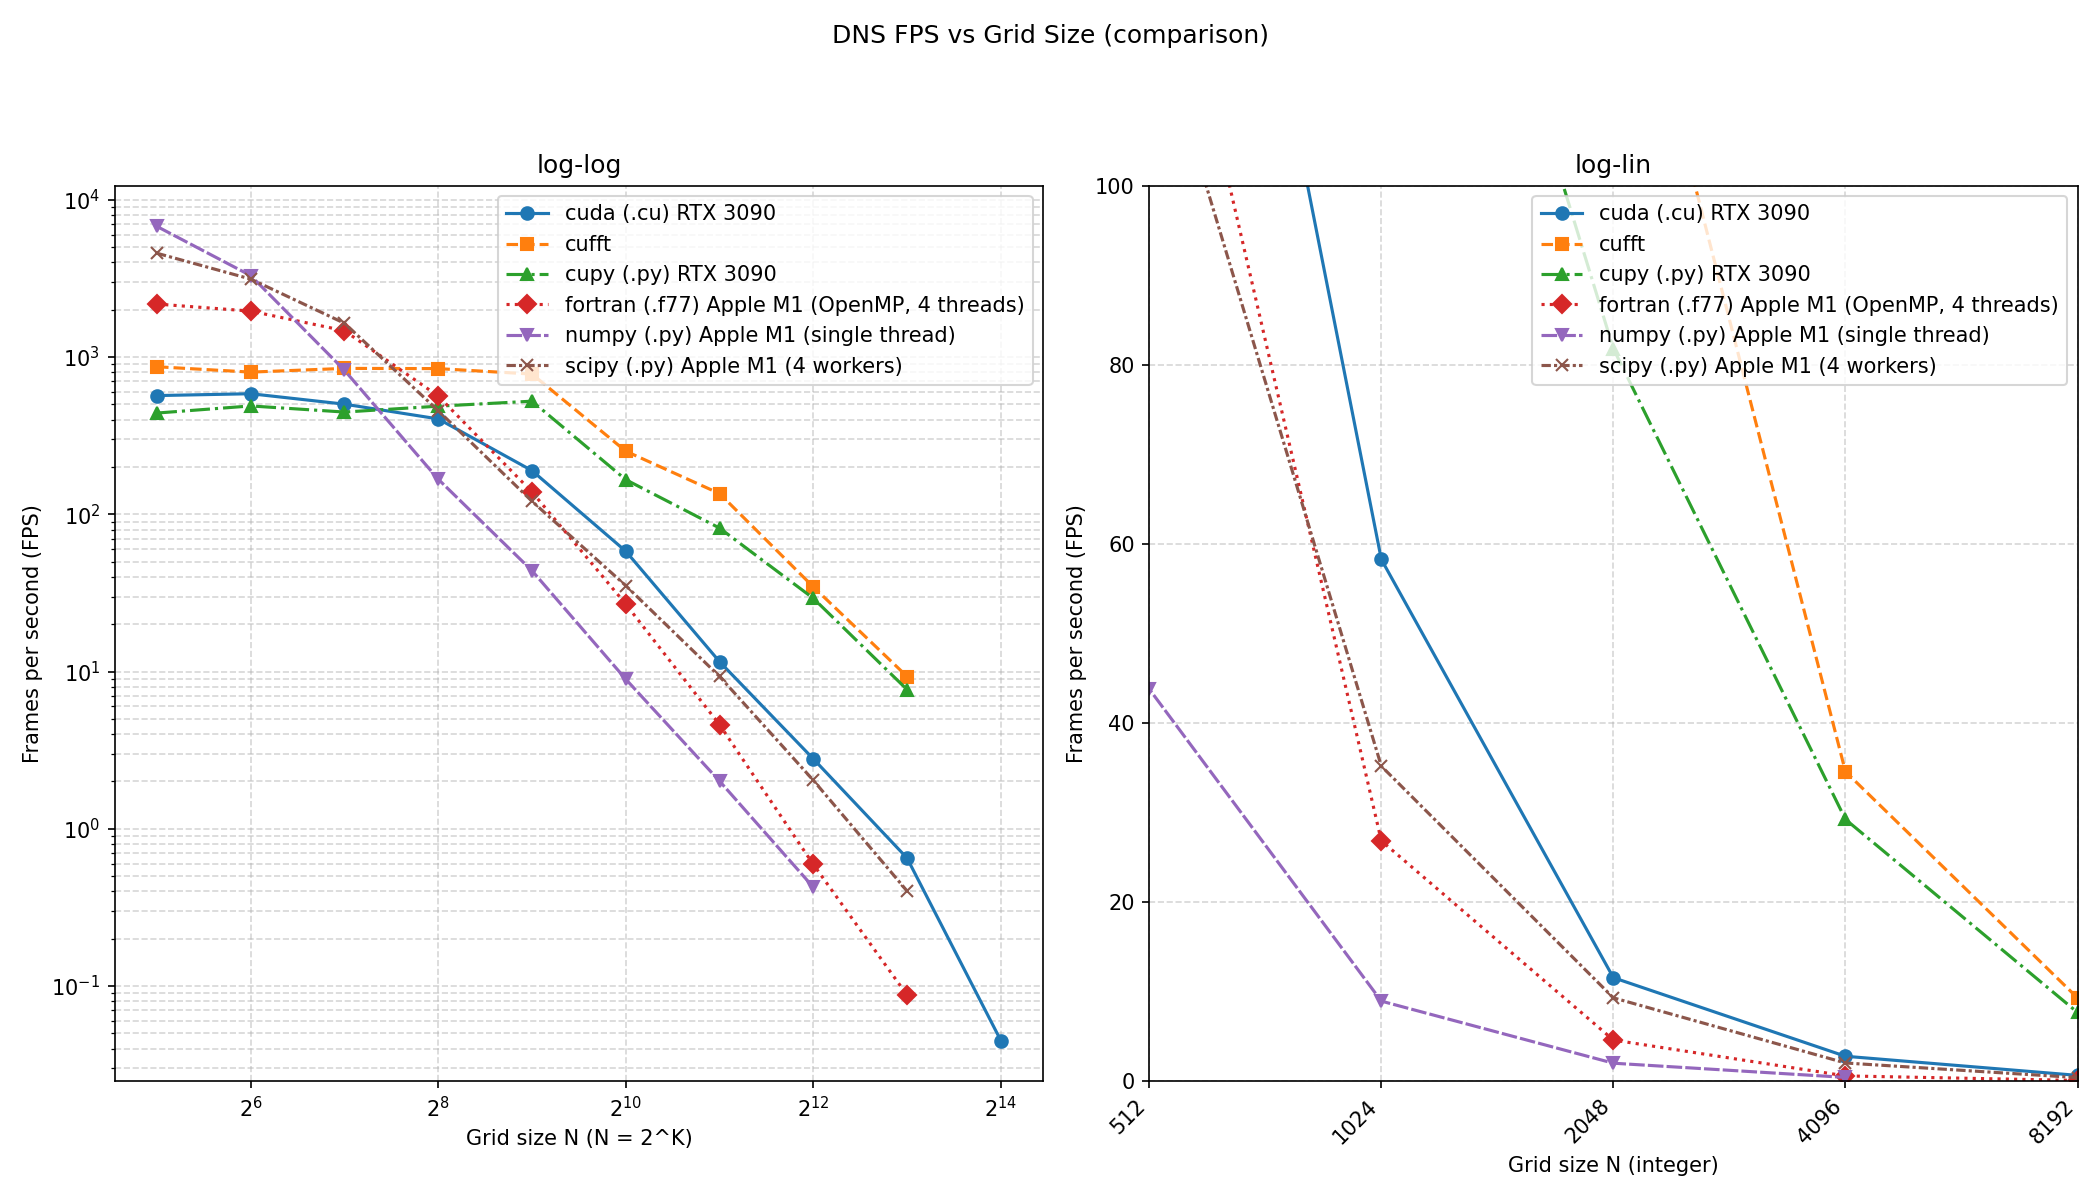
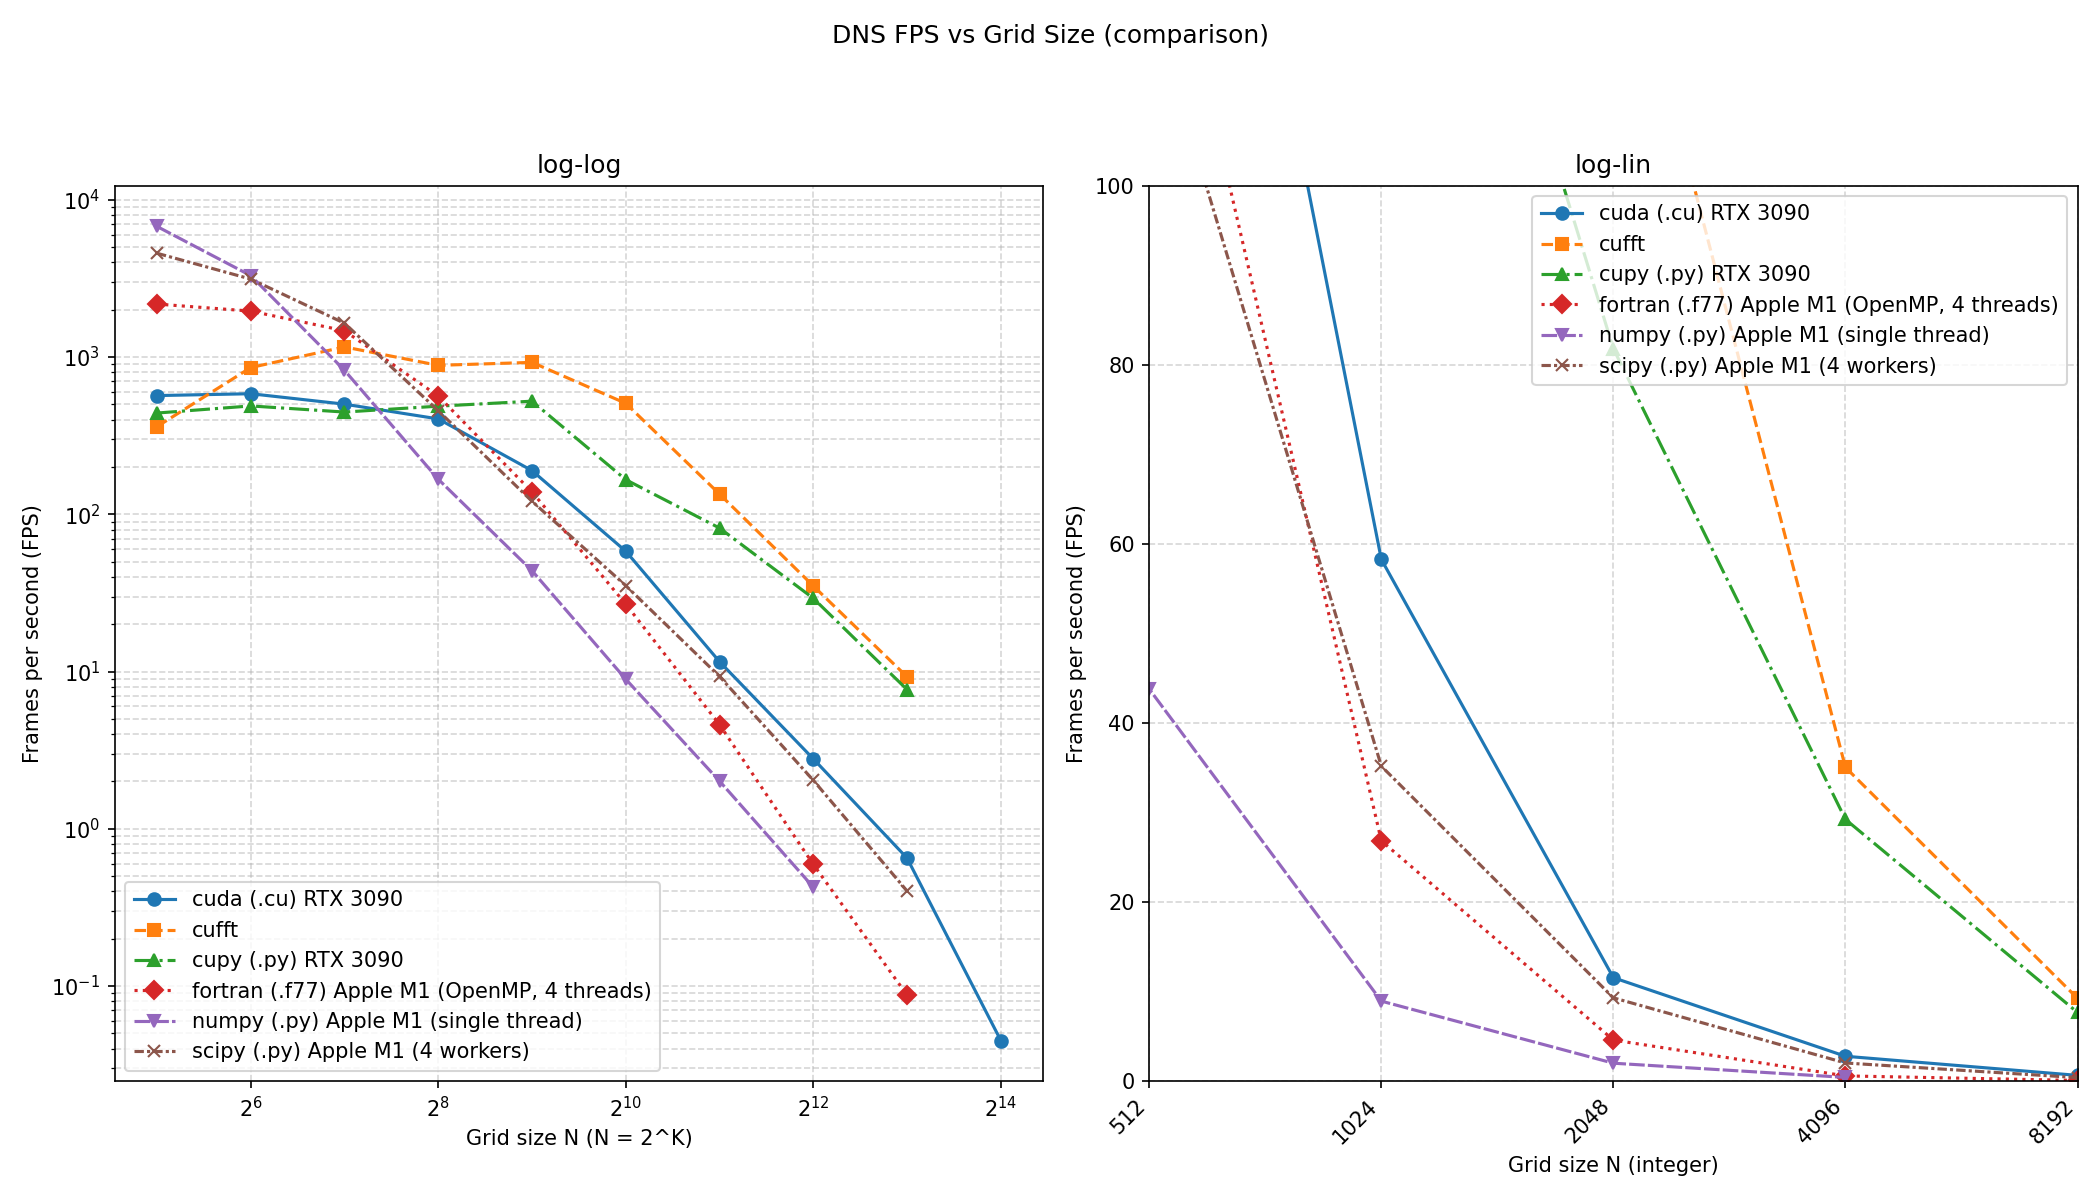
step3_inv_gamma0

diff --git a/fps/fps_compare.py b/fps/fps_compare.py
@@ -83,7 +83,7 @@ def main() -> None:
     ax1.set_ylabel("Frames per second (FPS)")
     ax1.set_title("log-log")
     ax1.grid(True, which="both", linestyle="--", alpha=0.5)
-    ax1.legend(loc="upper right")
+    ax1.legend(loc="lower left")
 
     # ---- Right subplot: log-lin ----
     ax2.set_xscale("log", base=2)  # log x
